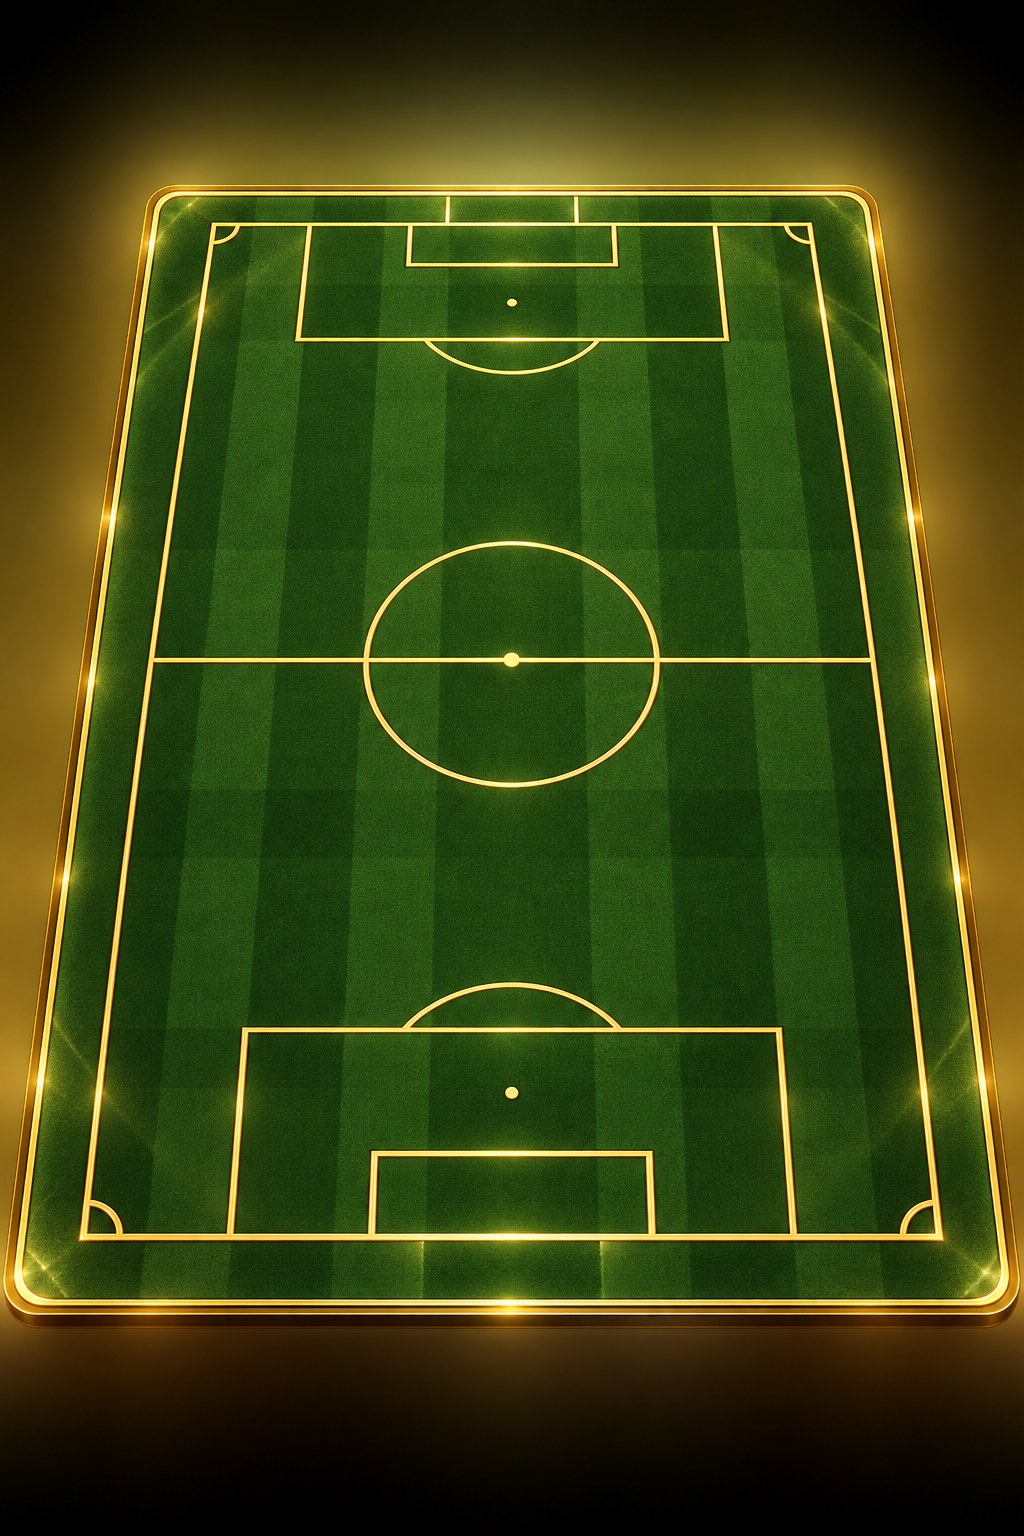
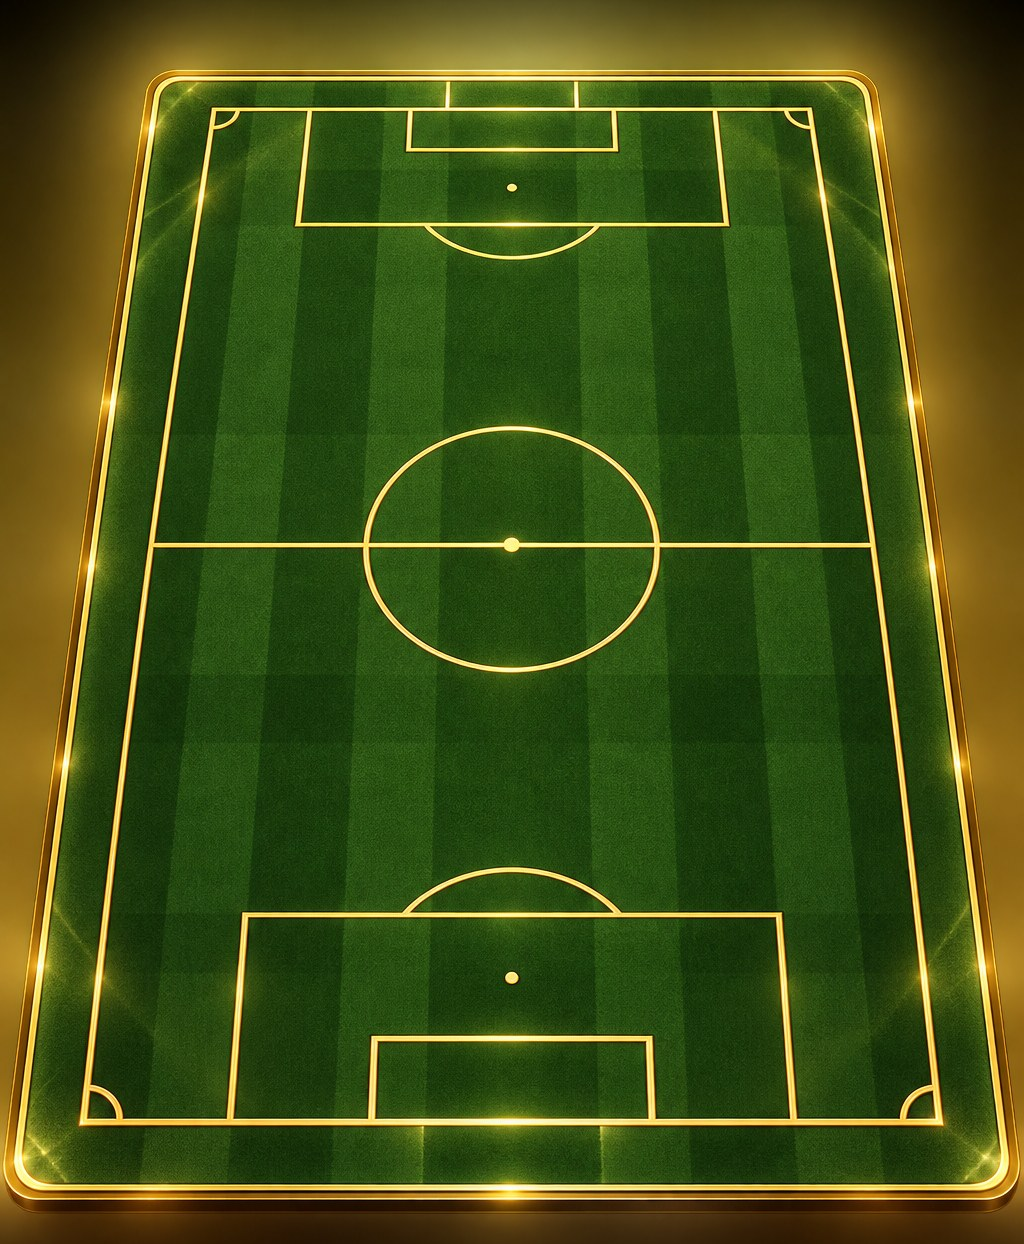
fix(fantasy): crop pitch artwork glow halo to a thin rim (owner feedback)

diff --git a/lib/fantasy/hub/squad_builder_logic.dart b/lib/fantasy/hub/squad_builder_logic.dart
@@ -79,13 +79,15 @@ double pitchWidthFactor(double y) => pitchTopScale + (1 - pitchTopScale) * y;
     (x: 0.5 + (o.x - 0.5) * pitchWidthFactor(o.y), y: o.y);
 
 // ── Owner's "Neon Gold Isometric Soccer Pitch" asset geometry ──────────────
-// The image (assets/fantasy/pitch_neon_gold.jpg, 1024×1536) bakes its own
-// perspective; these fractions were measured off the artwork so slots land on
-// its drawn grass. The pitch surface spans y 0.12–0.84 of the image; its
-// half-width grows from 0.335 (far/top) to 0.474 (near/bottom) of the image
-// width.
-const double pitchAssetTopY = 0.12;
-const double pitchAssetBottomY = 0.84;
+// The image (assets/fantasy/pitch_neon_gold.jpg, 1024×1244 — cropped from the
+// original artwork to trim its heavy glow halo to a thin rim, owner feedback)
+// bakes its own perspective; these fractions were measured off the artwork so
+// slots land on its drawn grass. In the cropped frame the pitch surface spans
+// y 0.056–0.944; its half-width grows from 0.335 (far/top) to 0.474
+// (near/bottom) of the image width.
+const double pitchAssetAspect = 1024 / 1244;
+const double pitchAssetTopY = 0.0556;
+const double pitchAssetBottomY = 0.9444;
 const double pitchAssetHalfTop = 0.335;
 const double pitchAssetHalfBottom = 0.474;
 

diff --git a/lib/fantasy/hub/court_view.dart b/lib/fantasy/hub/court_view.dart
@@ -110,10 +110,10 @@ class FantasyCourtView extends StatelessWidget {
     return Column(
       children: [
         AspectRatio(
-          // The asset renders at its own 2:3; the painter keeps its 0.78
-          // (taller than wide — room for the big photo chips either way; the
-          // page scrolls).
-          aspectRatio: useNeonPitchAsset ? 1024 / 1536 : 0.78,
+          // The asset renders at its own (cropped) aspect; the painter keeps
+          // its 0.78 (taller than wide — room for the big photo chips either
+          // way; the page scrolls).
+          aspectRatio: useNeonPitchAsset ? pitchAssetAspect : 0.78,
           child: ClipRRect(
             borderRadius: BorderRadius.circular(18),
             child: useNeonPitchAsset
